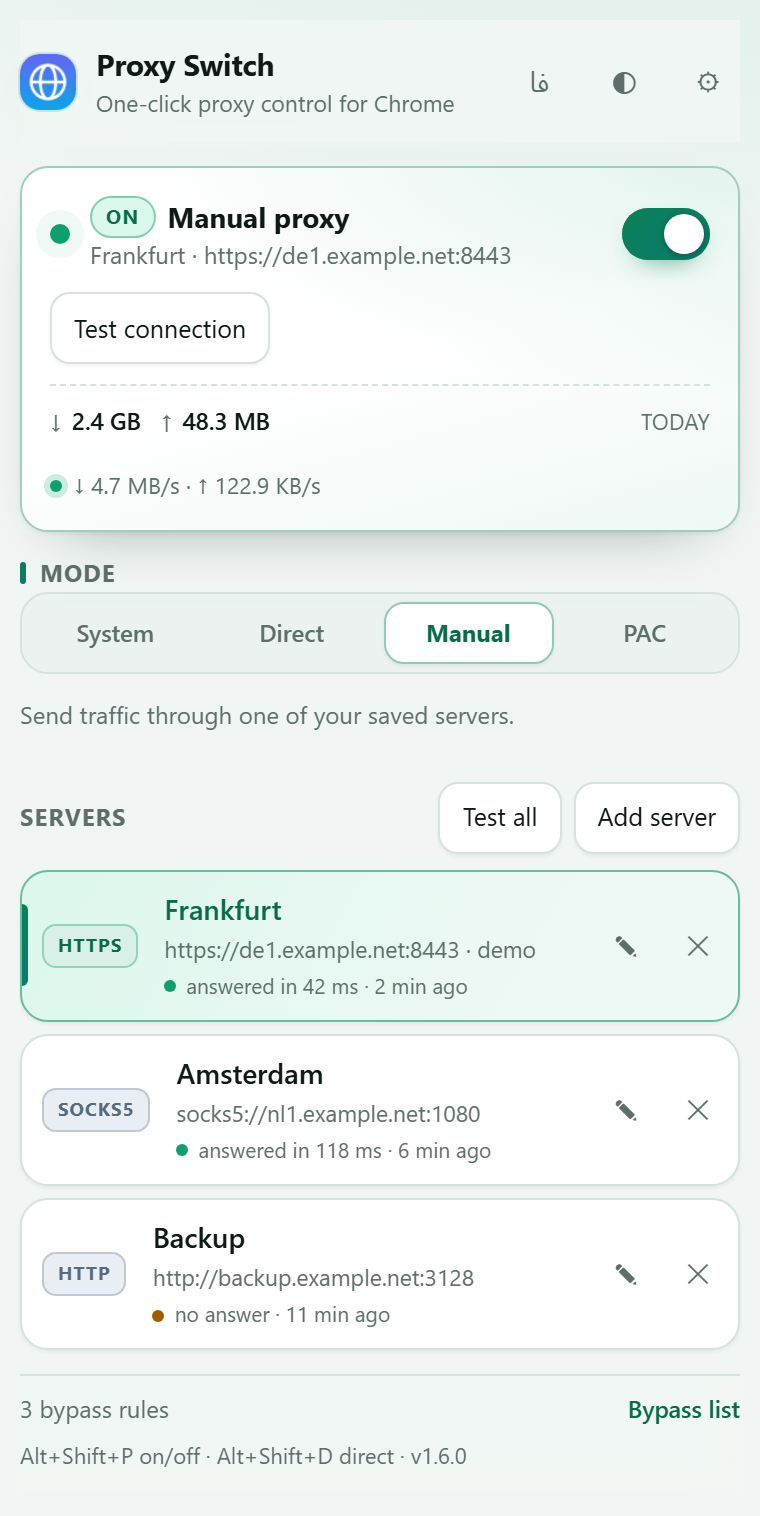
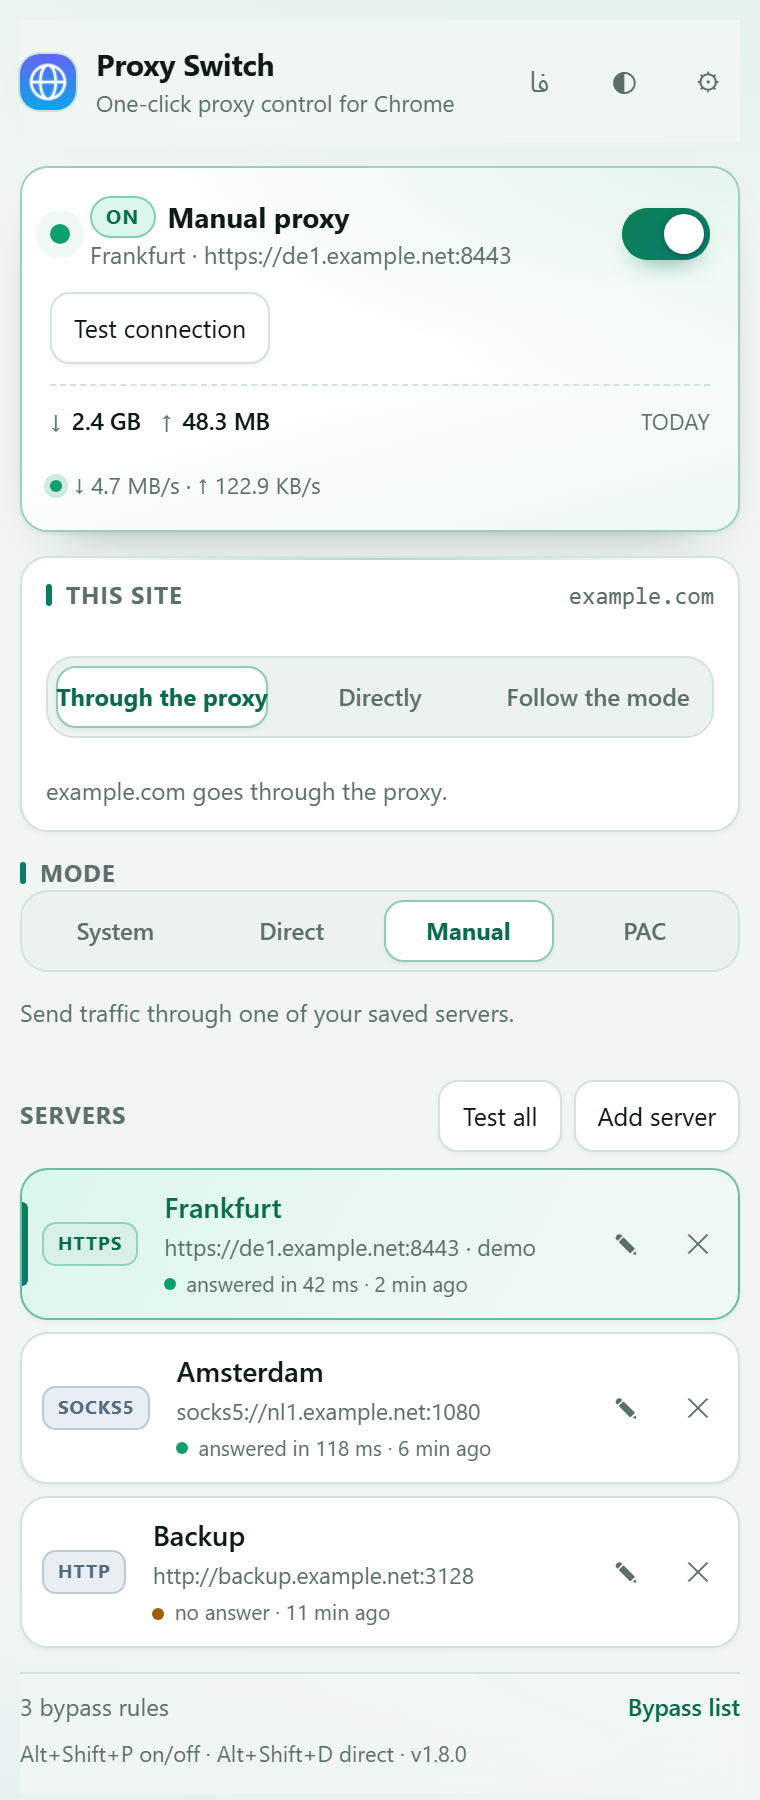
Retake the screenshots for 1.8.0, and seed the view that shows the new settings
The README claims the version in the pictures is the version it documents, and the
pictures were from before the site control, the per-site server picker and the two
appearance settings existed. They now also carry the seeded state that makes those
features visible: one listed site in the popup's control, and the domain view for
the settings page, where the list and its per-site pickers only appear in a mode
that uses them.

The alt text says what the pictures show, so the settings one is no longer
described as if the traffic meter were the only new thing.

Generated with Codebuff 🤖

diff --git a/src/__preview_chrome_stub.js b/src/__preview_chrome_stub.js
@@ -276,12 +276,15 @@
    * A demo seed, for pictures and for poking at the UI: `?demo=1` (or `?demo=fa`)
    * fills the stores with a plausible setup — three servers with verdicts, today's
    * counters, a speed that keeps moving — before the page's own scripts read them.
-   * Nothing here runs unless it is asked for.
+   * Nothing here runs unless it is asked for. `&view=pac` seeds domain routing
+   * instead, with two listed sites, so the settings page can show the per-site
+   * server picker.
    */
-  var demo = new URLSearchParams(location.search).get('demo');
-  if (demo) seedDemo(demo === 'fa' ? 'fa' : 'en');
+  var params = new URLSearchParams(location.search);
+  var demo = params.get('demo');
+  if (demo) seedDemo(demo === 'fa' ? 'fa' : 'en', params.get('view') === 'pac');
 
-  function seedDemo(language) {
+  function seedDemo(language, domainRouting) {
     var now = Date.now();
     var MB = 1024 * 1024;
     var GB = 1024 * MB;
@@ -301,10 +304,15 @@
         version: 1,
         settings: {
           enabled: true,
-          mode: 'fixed_servers',
+          mode: domainRouting ? 'pac_script' : 'fixed_servers',
           activeProfileId: 'demo-frankfurt',
           backgroundProbe: true,
           trafficMeter: true,
+          // The popup's site control reads these lists, so one site is listed in both
+          // views; only the PAC view puts the list itself on screen.
+          proxyDomains: domainRouting ? ['example.com', 'intra.example.net'] : ['example.com'],
+          domainServers: domainRouting ? { 'intra.example.net': 'demo-amsterdam' } : {},
+          domainRouting: domainRouting,
           language: language,
           theme: 'auto',
           accent: 'emerald',

diff --git a/README.fa.md b/README.fa.md
@@ -8,9 +8,9 @@
 
 ## تصاویر
 
-<img src="docs/screenshots/popup.fa.png" width="380" alt="پاپآپ: کلید اصلی، سرور فعال، ترافیک امروز و سرعت لحظهای">
+<img src="docs/screenshots/popup.fa.png" width="380" alt="پاپآپ: مسیردهی یککلیکی برای سایت همین تب، کلید اصلی، سرور فعال، ترافیک امروز و سرعت لحظهای">
 
-<img src="docs/screenshots/settings.fa.png" width="780" alt="صفحهٔ تنظیمات: حالت پروکسی، شمارندهٔ ترافیک با سرعت لحظهای و فهرست سرورها با آخرین نتیجه">
+<img src="docs/screenshots/settings.fa.png" width="780" alt="صفحهٔ تنظیمات: ظاهر، حالت پروکسی با فهرست سایتها و یک سرور برای هر سایت، شمارندهٔ ترافیک با سرعت لحظهای و فهرست سرورها با آخرین نتیجه">
 
 هر دو صفحه بدون نصب هم باز میشوند (بخش «امتحان کردن رابط بدون نصب») و همین تصویرها با
 `npm run shots` از خودشان گرفته میشوند — یعنی خودِ رابطاند، نه طرحی از آن.

diff --git a/README.md b/README.md
@@ -12,9 +12,9 @@ bilingual — English and Persian (فارسی) with full RTL support — and eve
 
 ## Screenshots
 
-<img src="docs/screenshots/popup.png" width="380" alt="The popup: the master switch, the server in use, today's traffic and the live speed">
+<img src="docs/screenshots/popup.png" width="380" alt="The popup: one-click routing for the site this tab is on, the master switch, the server in use, today's traffic and the live speed">
 
-<img src="docs/screenshots/settings.png" width="780" alt="The settings page: proxy mode, the traffic meter with the live speed, and the servers with their last verdicts">
+<img src="docs/screenshots/settings.png" width="780" alt="The settings page: appearance, proxy mode with the site list and a server for each listed site, the traffic meter with the live speed, and the servers with their last verdicts">
 
 Both pages open without installing anything — see
 [Try the UI without installing](#try-the-ui-without-installing) — and these pictures are taken from
